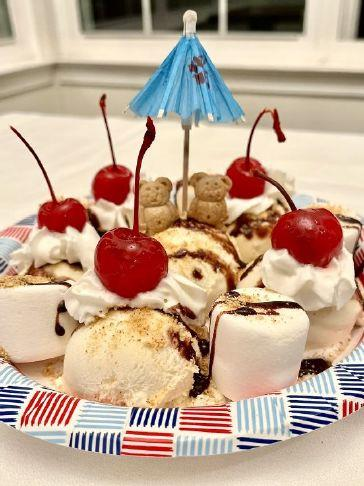
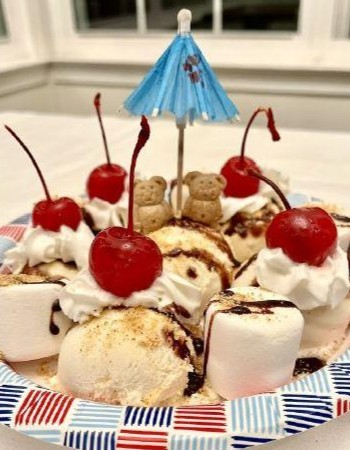
Added transition effect to the navigation toggle button for a smoother user experience. Updated the background color on hover to enhance visual feedback.

diff --git a/index.html b/index.html
@@ -11,6 +11,7 @@
 </head>
 
 <body>
+  <script src="transition.js"></script>
   <!-- =========================
        HERO
   ========================== -->
@@ -72,18 +73,23 @@
         <h2>
           About Rolling Stone Creamery
         </h2>
+          <p>
+            At The Rolling Stone Creamery, we’re a family-owned ice cream shop in Huron, Ohio serving 
+            up sweet moments for the community. We offer hand-dipped ice cream from Toft Dairy, along 
+            with toppings and specialty treats like our signature “S’mores on the Shore,” giving 
+            everyone—from classic cone lovers to adventurous dessert fans—something to enjoy. 
+            Our 23-foot Airstream trailer adds a unique touch of history and character, once traveling
+            with The Rolling Stones on tour and now settled by the lake.
+          </p>
 
-        <p>
-          We create handcrafted rolled ice cream using fresh ingredients,
-          premium dairy, and creative flavor combinations that bring
-          smiles to every customer.
-        </p>
+          <p>
+            Whether you’re walking the pier, watching the boats, or enjoying a Lake Erie sunset, 
+            we’re here to make every visit a little sweeter—a place to relax, enjoy ice cream, and
+            make memories with family and friends. Visit us at 
+            <em><b><a href="https://www.google.com/maps/place/The+Rolling+Stone+Creamery/@41.3968279,82.5543400,17z/data=!3m1!4b1!4m5!3m4!1s0x883a6b183b2b6341:0x81b5bcb87143c381!8m2!3d41.3968279!4d-82.5543400">120 Main St, Huron, OH 44839</a></b></em>
+            near the Huron Pier.
+          </p>
 
-        <p>
-          From classic favorites to custom creations,
-          Rolling Stone Creamery is designed to be a fun,
-          welcoming destination for families and dessert lovers.
-        </p>
     <div class="map-container">
       <iframe src="https://www.google.com/maps/embed?pb=!1m18!1m12!1m3!1d2992.952957649948!2d-82.55434002339095!3d41.39682797129865!2m3!1f0!2f0!3f0!3m2!1i1024!2i768!4f13.1!3m3!1m2!1s0x883a6b183b2b6341%3A0x81b5bcb87143c381!2sThe%20Rolling%20Stone%20Creamery!5e0!3m2!1sen!2sus!4v1778425450302!5m2!1sen!2sus" allowfullscreen="" loading="lazy" referrerpolicy="no-referrer-when-downgrade"></iframe>
     </div>

diff --git a/global.css b/global.css
@@ -16,6 +16,39 @@
   --card-shadow: rgba(0,0,0,0.08);
 }
 
+/*Transition for page fade effect*/
+body {
+  opacity: 0;
+  transform: translateY(8px);
+  filter: blur(6px);
+
+  transition: none;
+}
+
+/* ENTRY (1s smooth focus-in) */
+body.page-ready {
+  opacity: 1;
+  transform: translateY(0);
+  filter: blur(0px);
+
+  transition:
+    opacity 1s cubic-bezier(0.22, 1, 0.36, 1),
+    transform 1s cubic-bezier(0.22, 1, 0.36, 1),
+    filter 1s cubic-bezier(0.22, 1, 0.36, 1);
+}
+
+/* EXIT (fast + responsive) */
+body.page-exit {
+  opacity: 0;
+  transform: translateY(-4px);
+  filter: blur(8px);
+
+  transition:
+    opacity 0.25s ease,
+    transform 0.25s ease,
+    filter 0.25s ease;
+}
+
 /* Reset and base typography */
 * {
   margin: 0;

diff --git a/transition.js b/transition.js
@@ -1,0 +1,22 @@
+document.addEventListener("DOMContentLoaded", () => {
+  requestAnimationFrame(() => {
+    document.body.classList.add("page-ready");
+  });
+
+  document.querySelectorAll("a").forEach(link => {
+    link.addEventListener("click", (e) => {
+      const href = link.getAttribute("href");
+
+      if (!href || href.startsWith("#")) return;
+
+      e.preventDefault();
+
+      document.body.classList.remove("page-ready");
+      document.body.classList.add("page-exit");
+
+      setTimeout(() => {
+        window.location.href = href;
+      }, 250);
+    });
+  });
+});

diff --git a/menu.css b/menu.css
@@ -127,8 +127,8 @@
 /* Image LEFT */
 .special-item-image {
   width: 100%;
-  max-width: 500px;
-  height: 350px;
+  max-width: 350px;
+  height: 450px;
   object-fit: cover;
   border-radius: 18px;
   flex-shrink: 0;
@@ -219,7 +219,7 @@
   }
 
   .special-item-image {
-    height: 300px;
+    height: 450px;
   }
 
   .special-item-text {

diff --git a/menu.html b/menu.html
@@ -11,6 +11,7 @@
 </head>
 
 <body>
+  <script src="transition.js"></script>
   <!-- =========================
        NAVBAR
   ========================== -->
